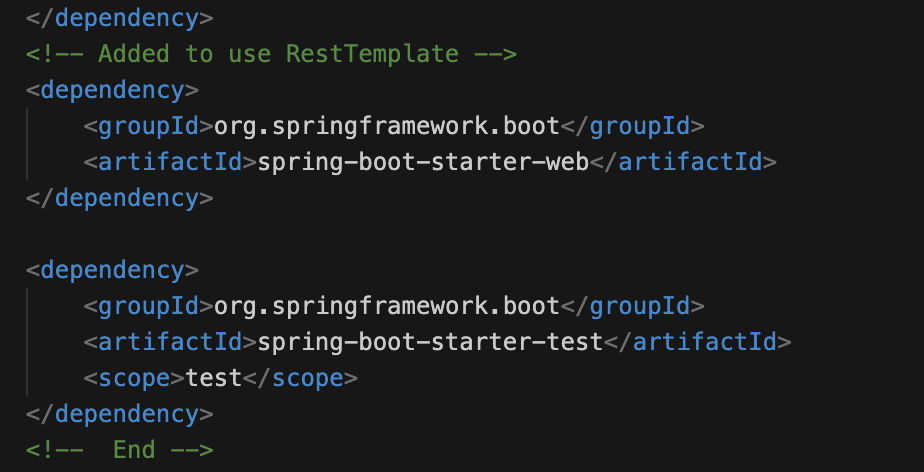
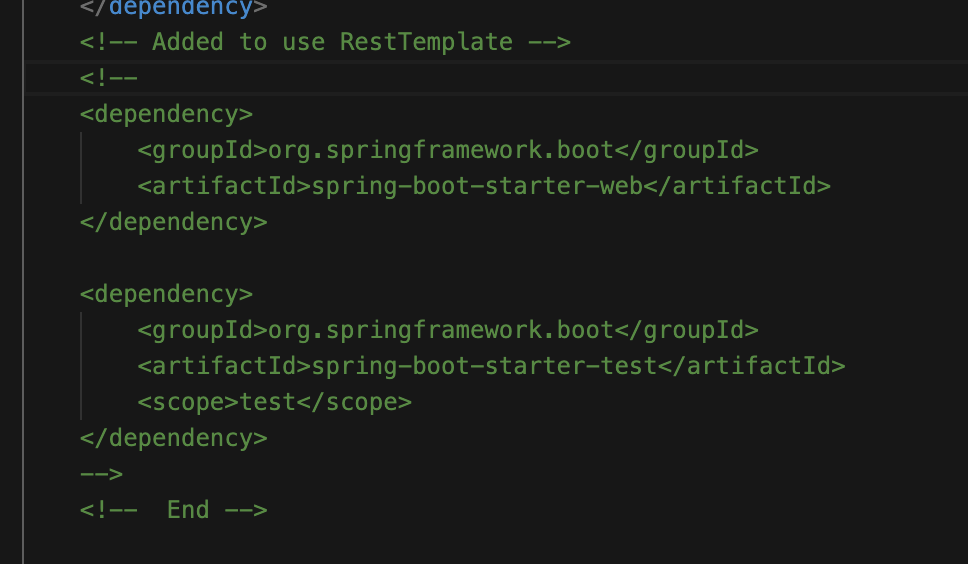
updates :

diff --git a/lab-workshop-content/workshop/content/exercises/03-call-common-service.md b/lab-workshop-content/workshop/content/exercises/03-call-common-service.md
@@ -10,7 +10,7 @@ Objective:
 
 * If project is not open,  please open the same project as the previous lab in Code Ready Workspace. 
 
-* To call REST service in Spring Boot, the following libraries need to include in pom.xml.  Please refer to the diagram below. 
+* To call REST service in Spring Boot, the following libraries need to include in pom.xml.  Please refer to the diagram below. Remove the comment <!-- -->. 
 ![Service Call 01](./images/03/servicecall-01.png)
 
 * Open `src/main/java/com/workshop/main/service/ServiceEndPoint.java`. Copy and paste the following under `//import classes (1)`.   
